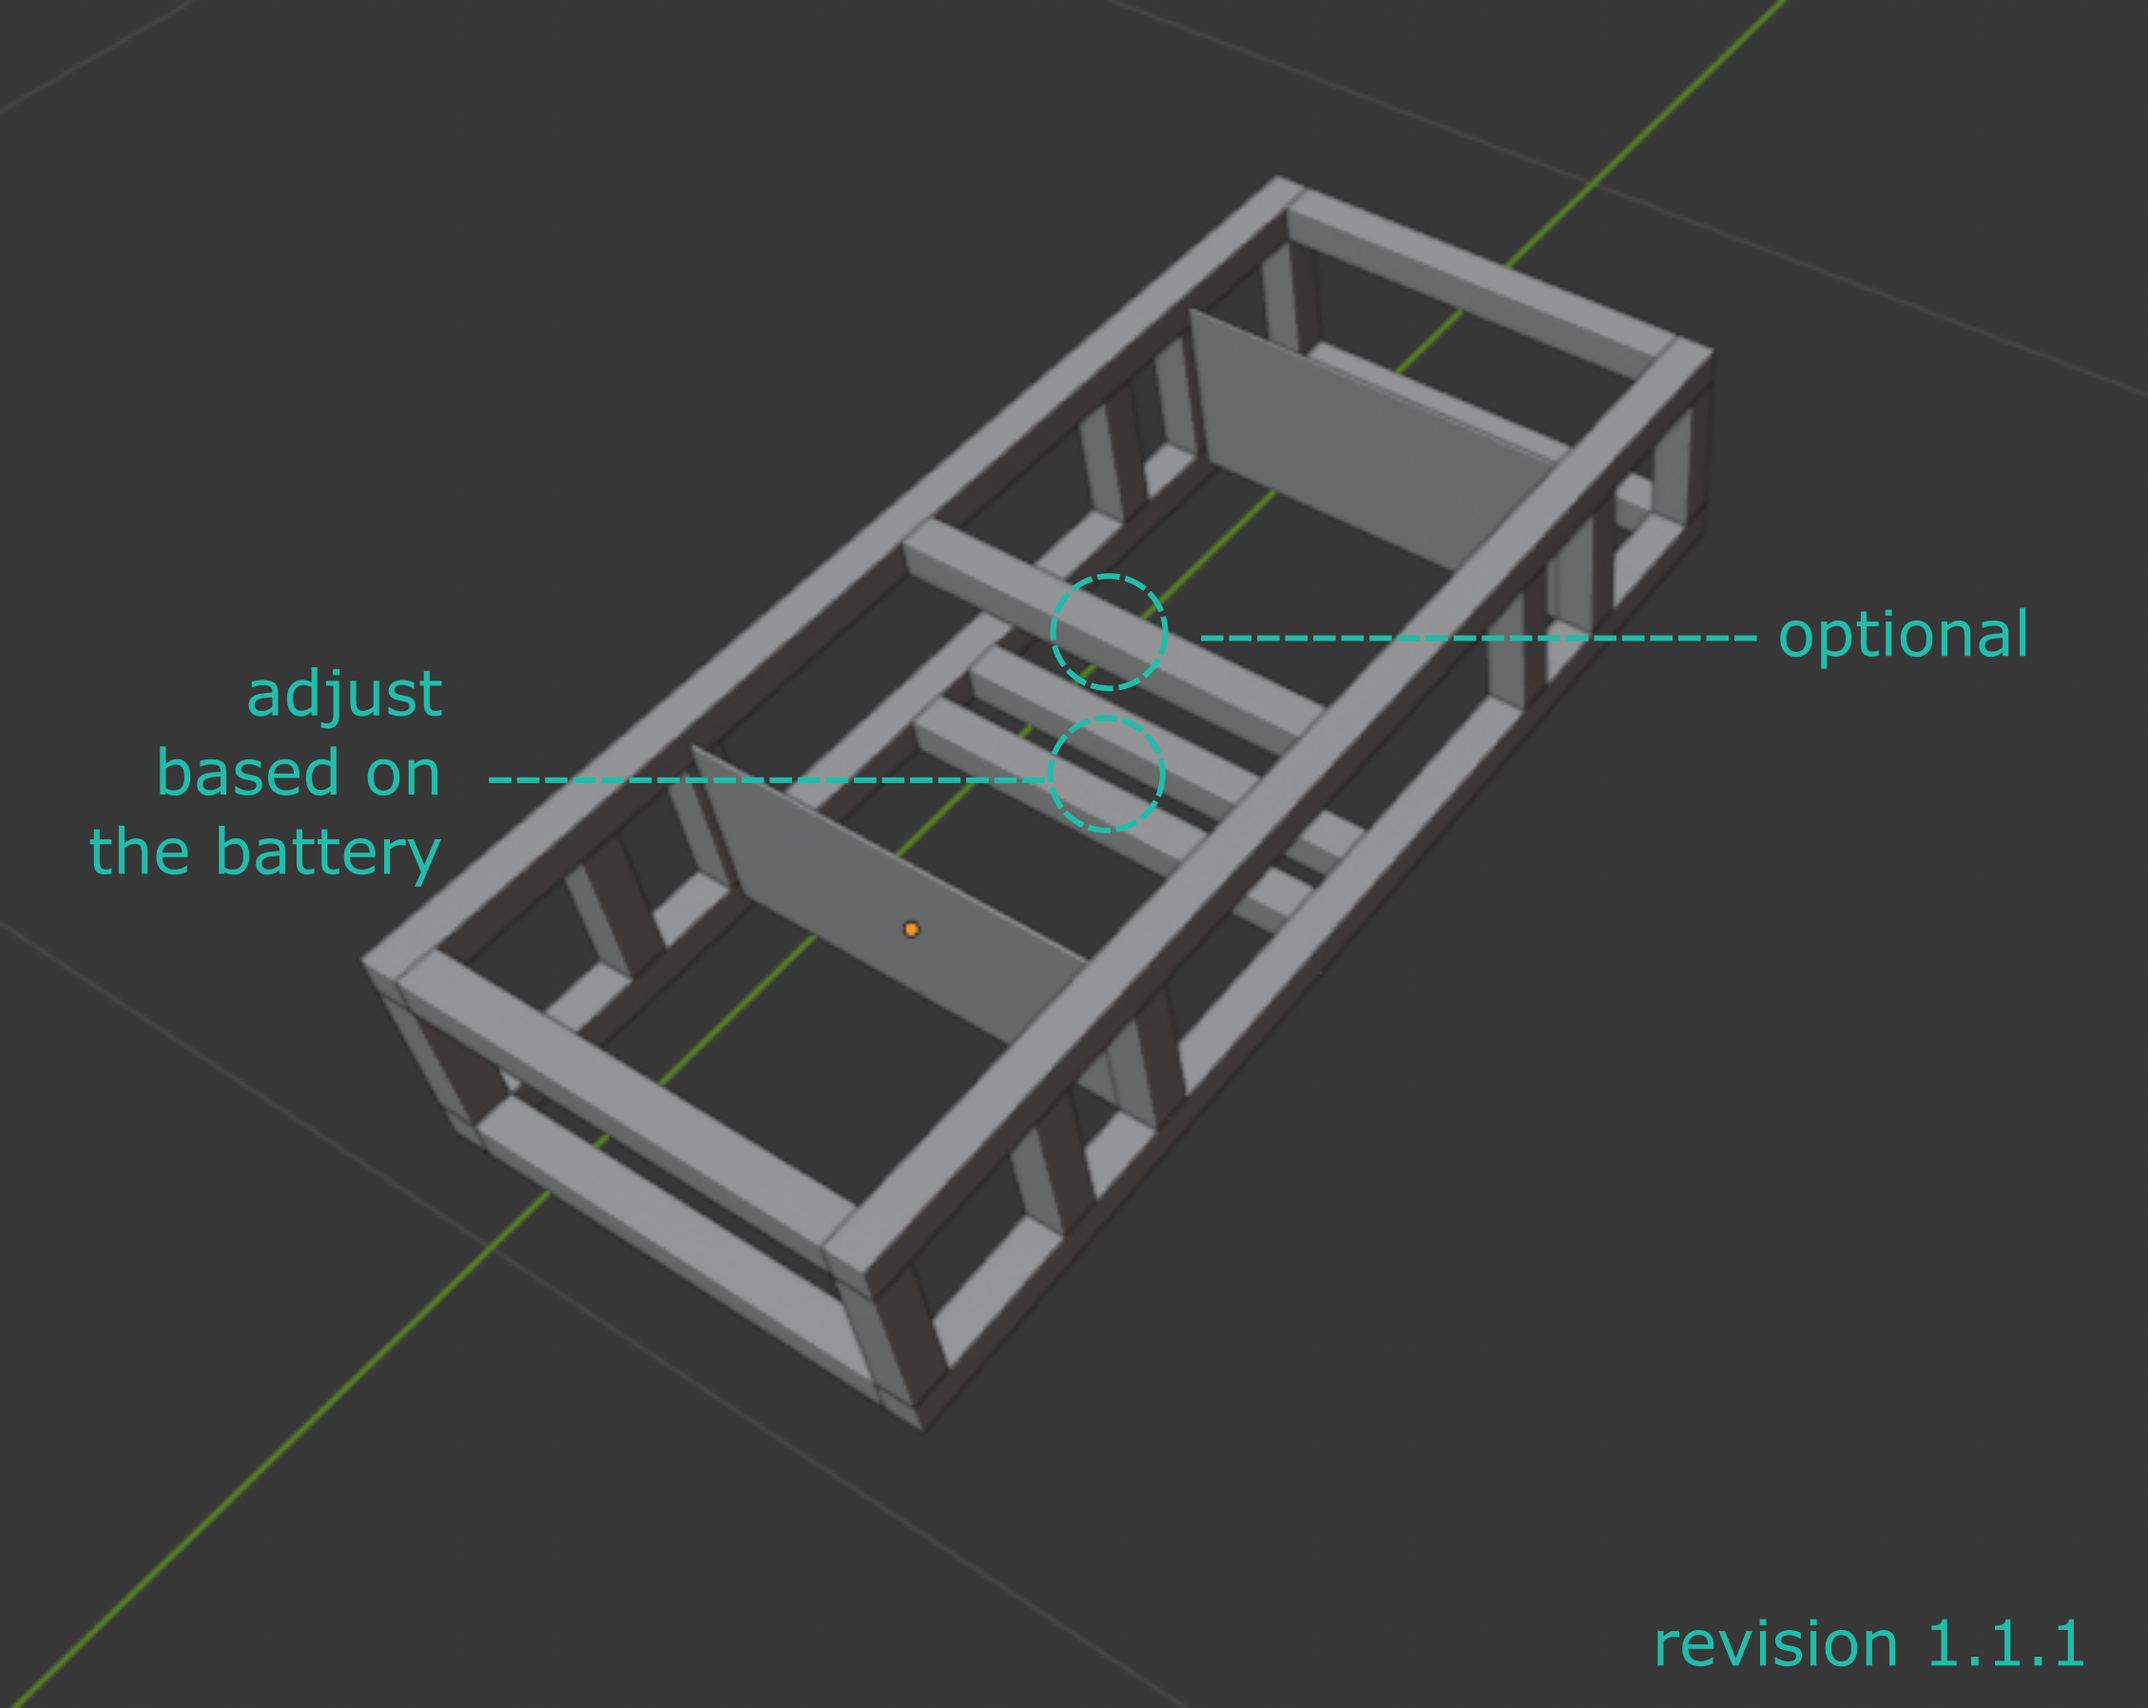
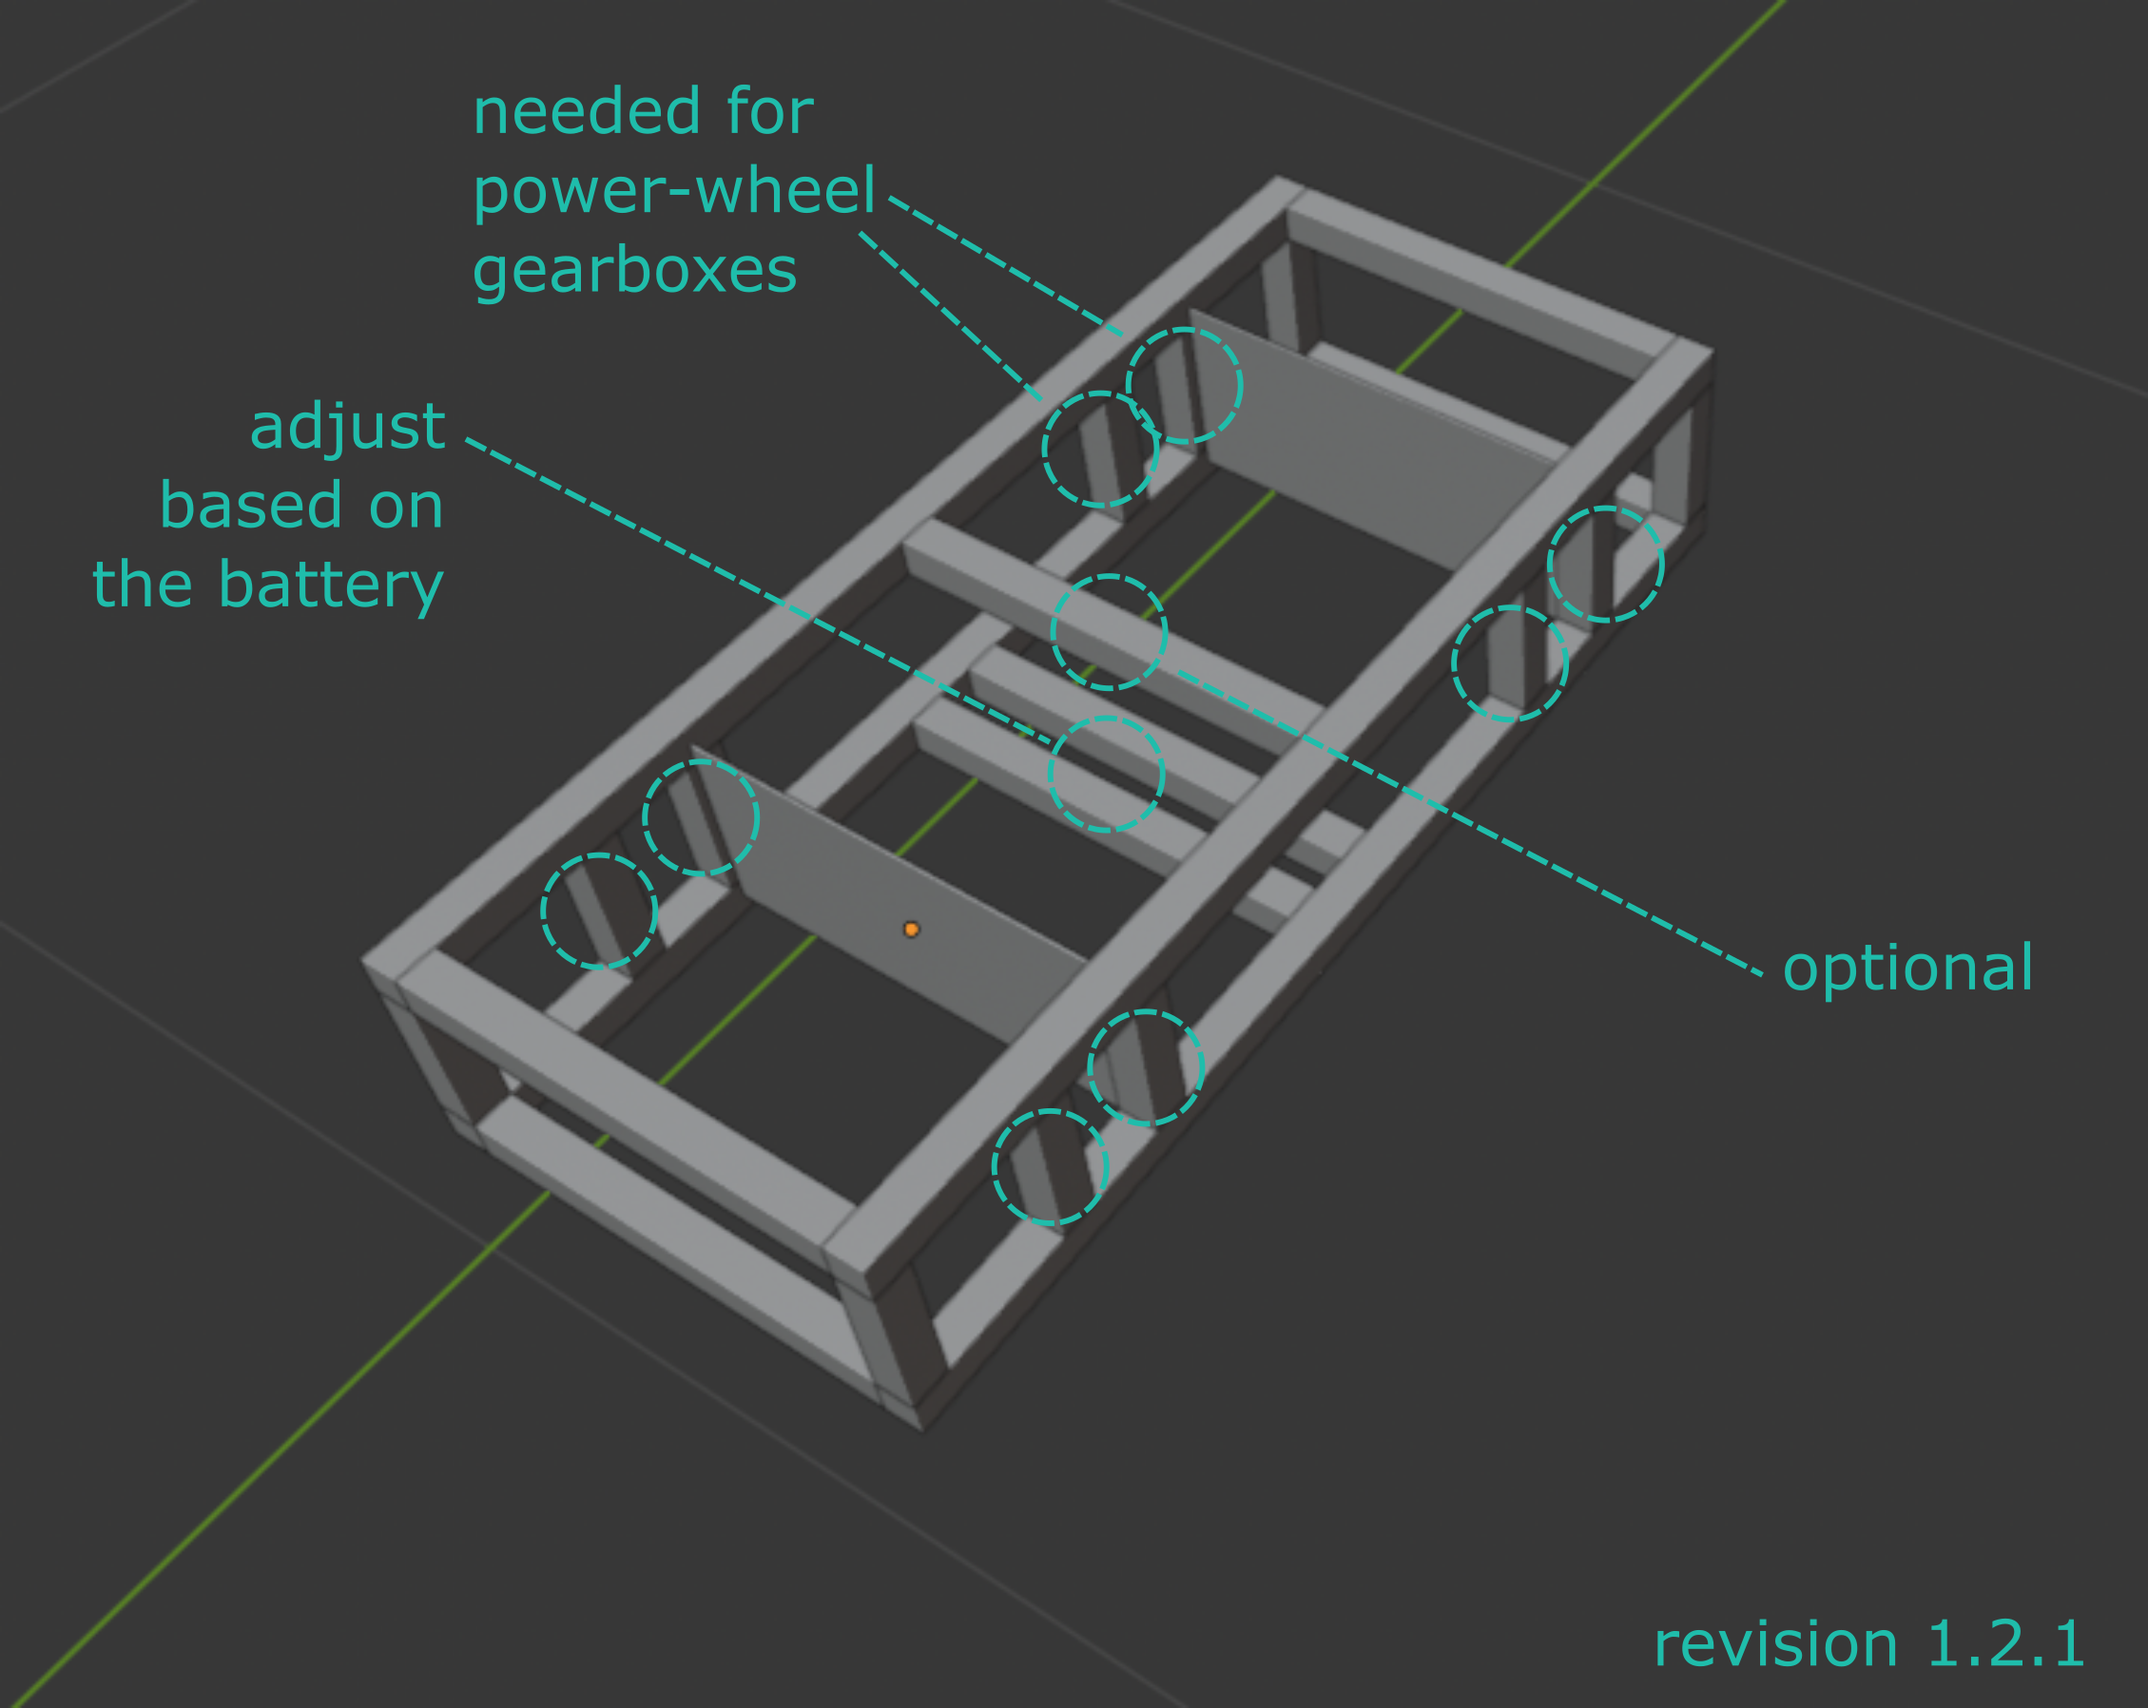
++

diff --git a/bluer_designs/__init__.py b/bluer_designs/__init__.py
@@ -1,1 +1,1 @@
-VERSION = "3.75.1"
+VERSION = "3.76.1"
